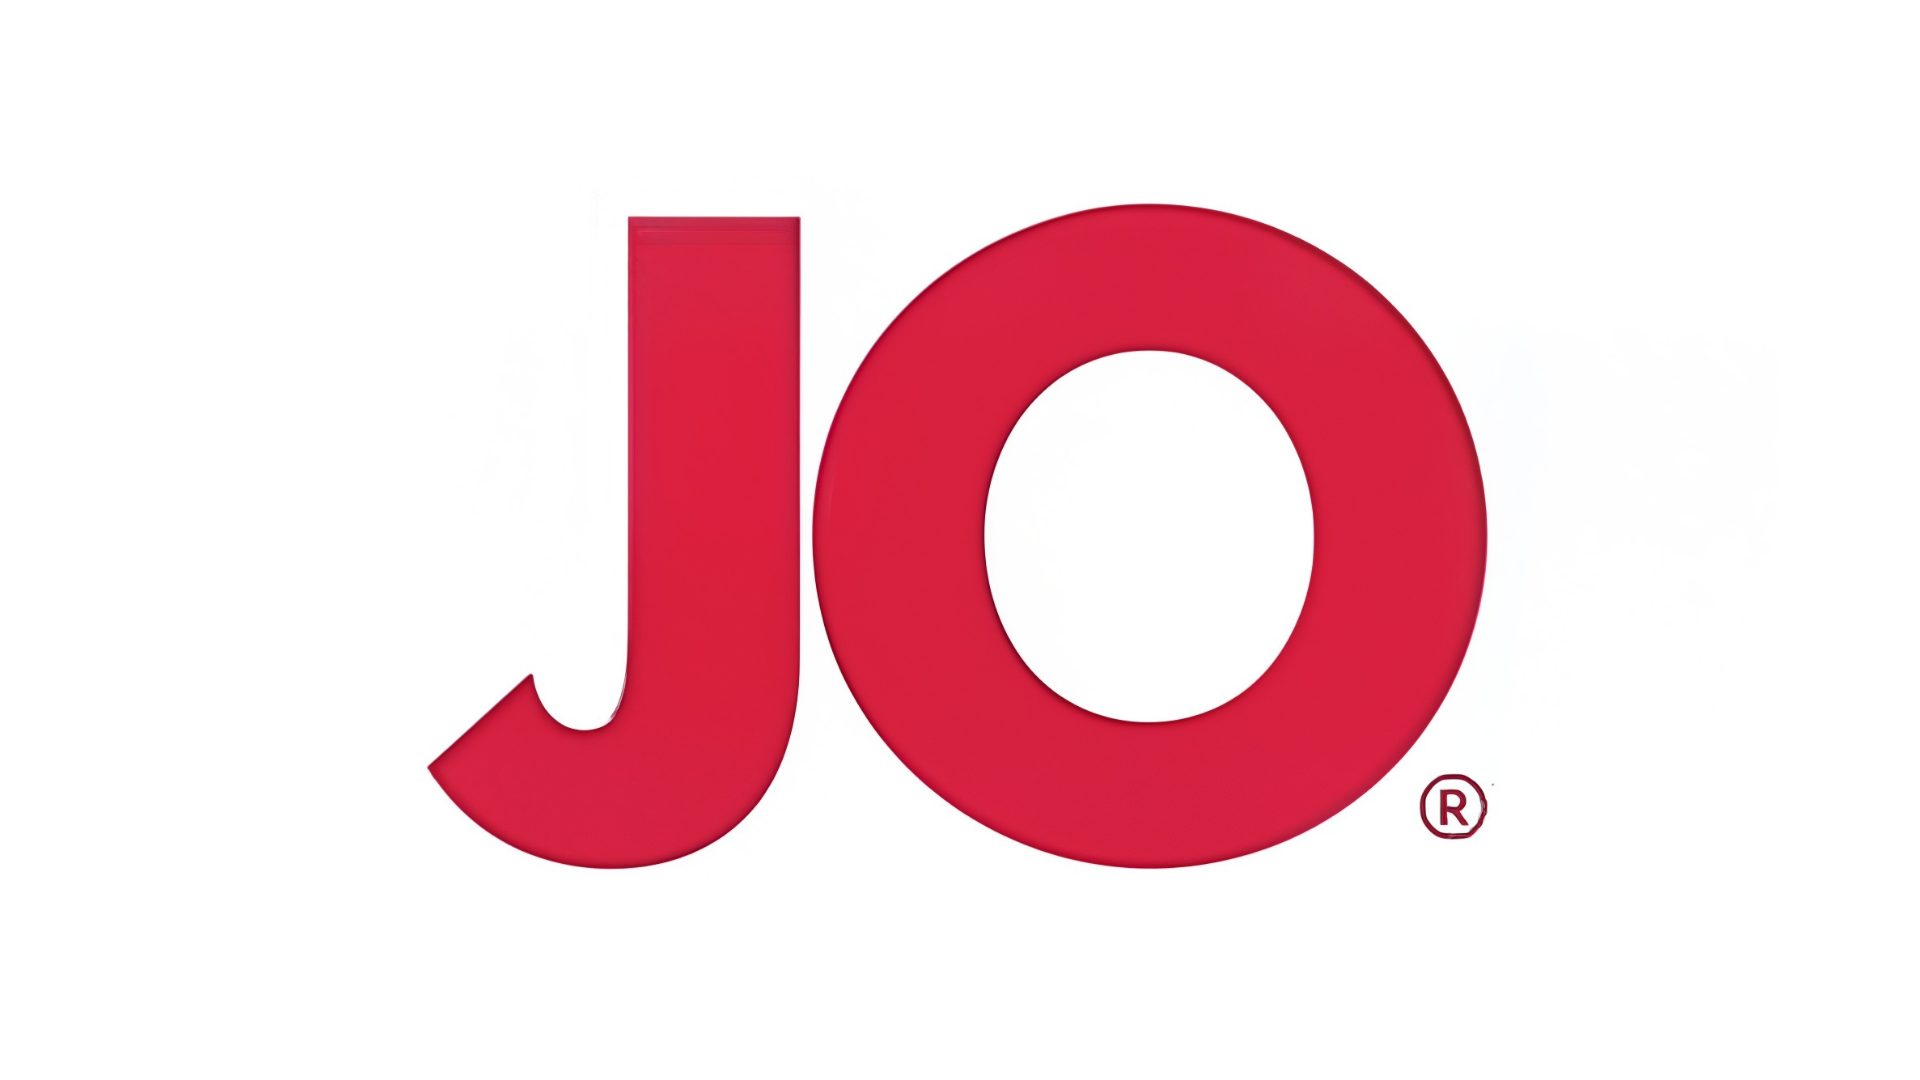
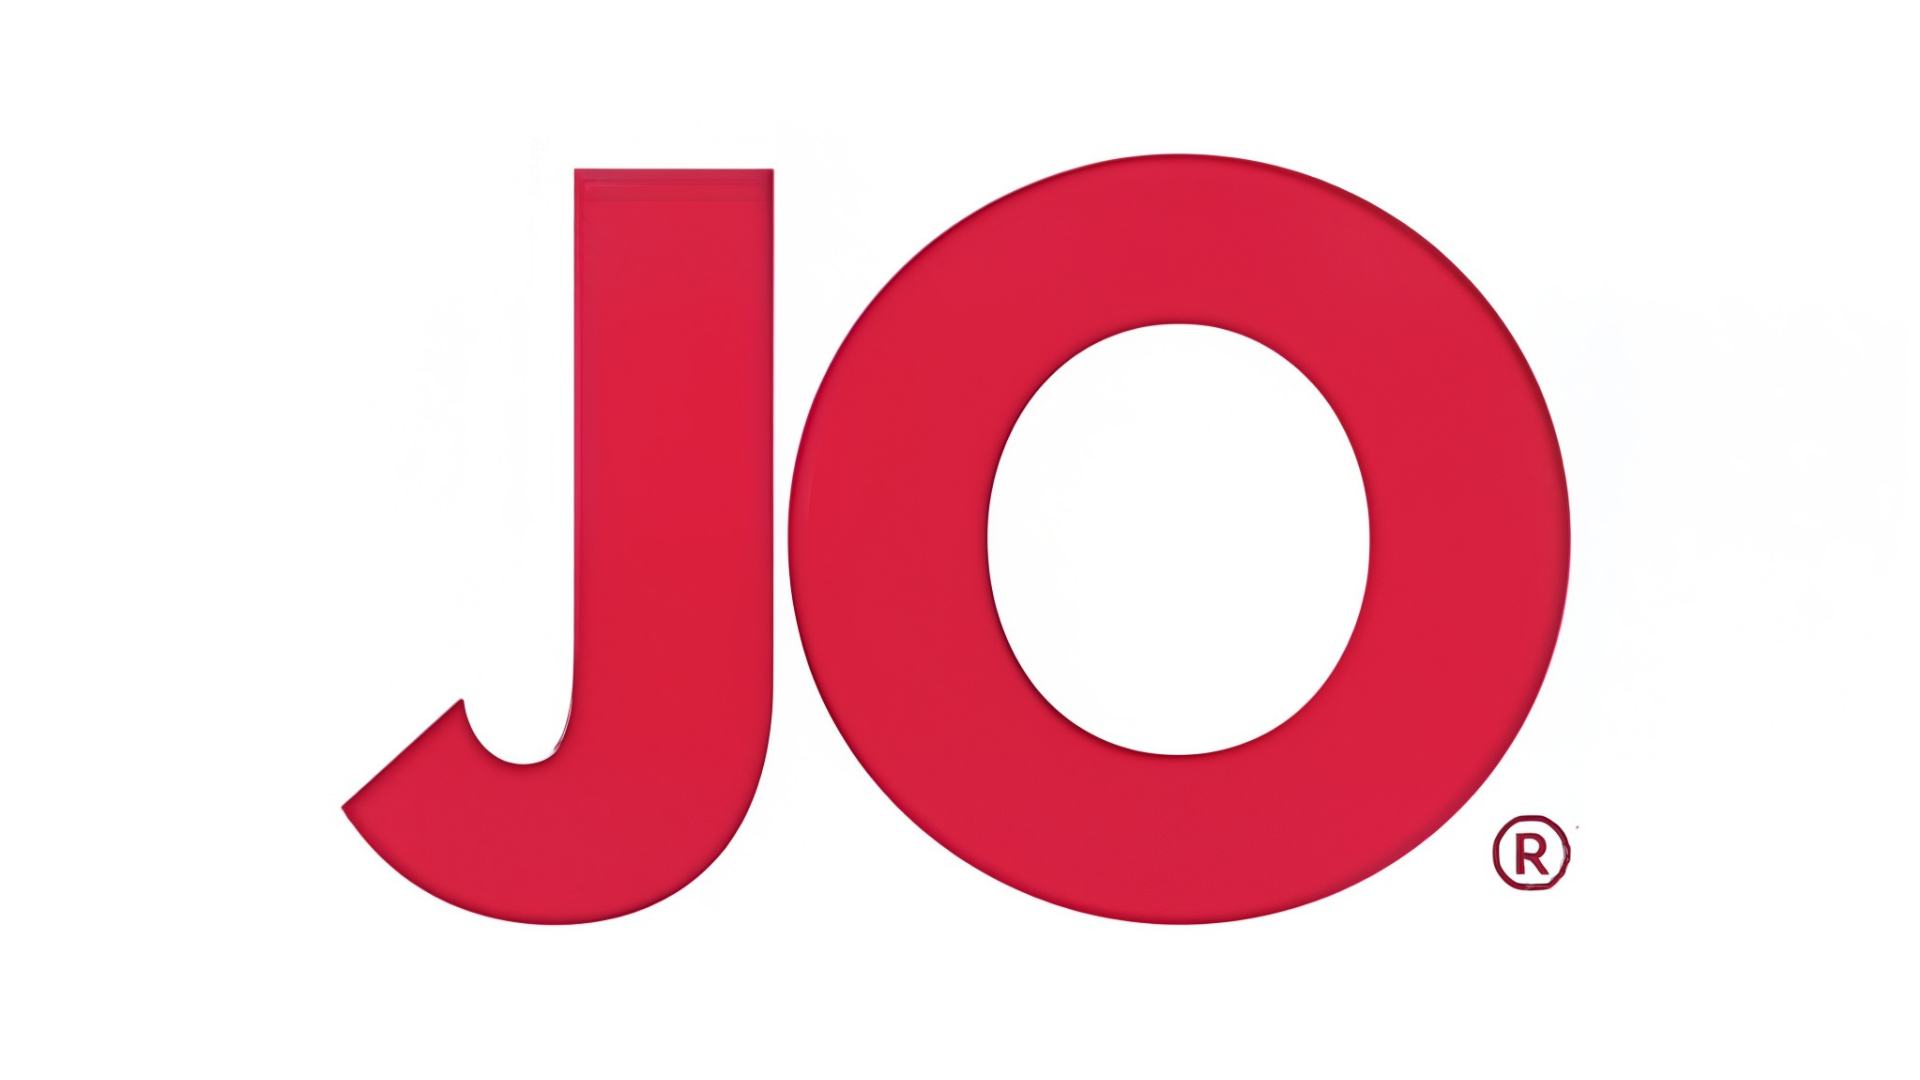
Бренди

diff --git a/static/css/brands-section.css b/static/css/brands-section.css
@@ -20,7 +20,6 @@
   display: flex;
   align-items: center;
   justify-content: center;
-  padding: 15px;
   background: var(--white);
   border-radius: 12px;
   border: 1px solid rgba(0, 0, 0, 0.06);
@@ -65,9 +64,6 @@
     gap: 20px;
   }
   
-  .brand-item {
-    padding: 12px;
-  }
 }
 
 @media (max-width: 768px) {
@@ -85,9 +81,6 @@
     gap: 15px;
   }
   
-  .brand-item {
-    padding: 10px;
-  }
 }
 
 @media (max-width: 480px) {
@@ -95,7 +88,4 @@
     gap: 12px;
   }
   
-  .brand-item {
-    padding: 8px;
-  }
 }
